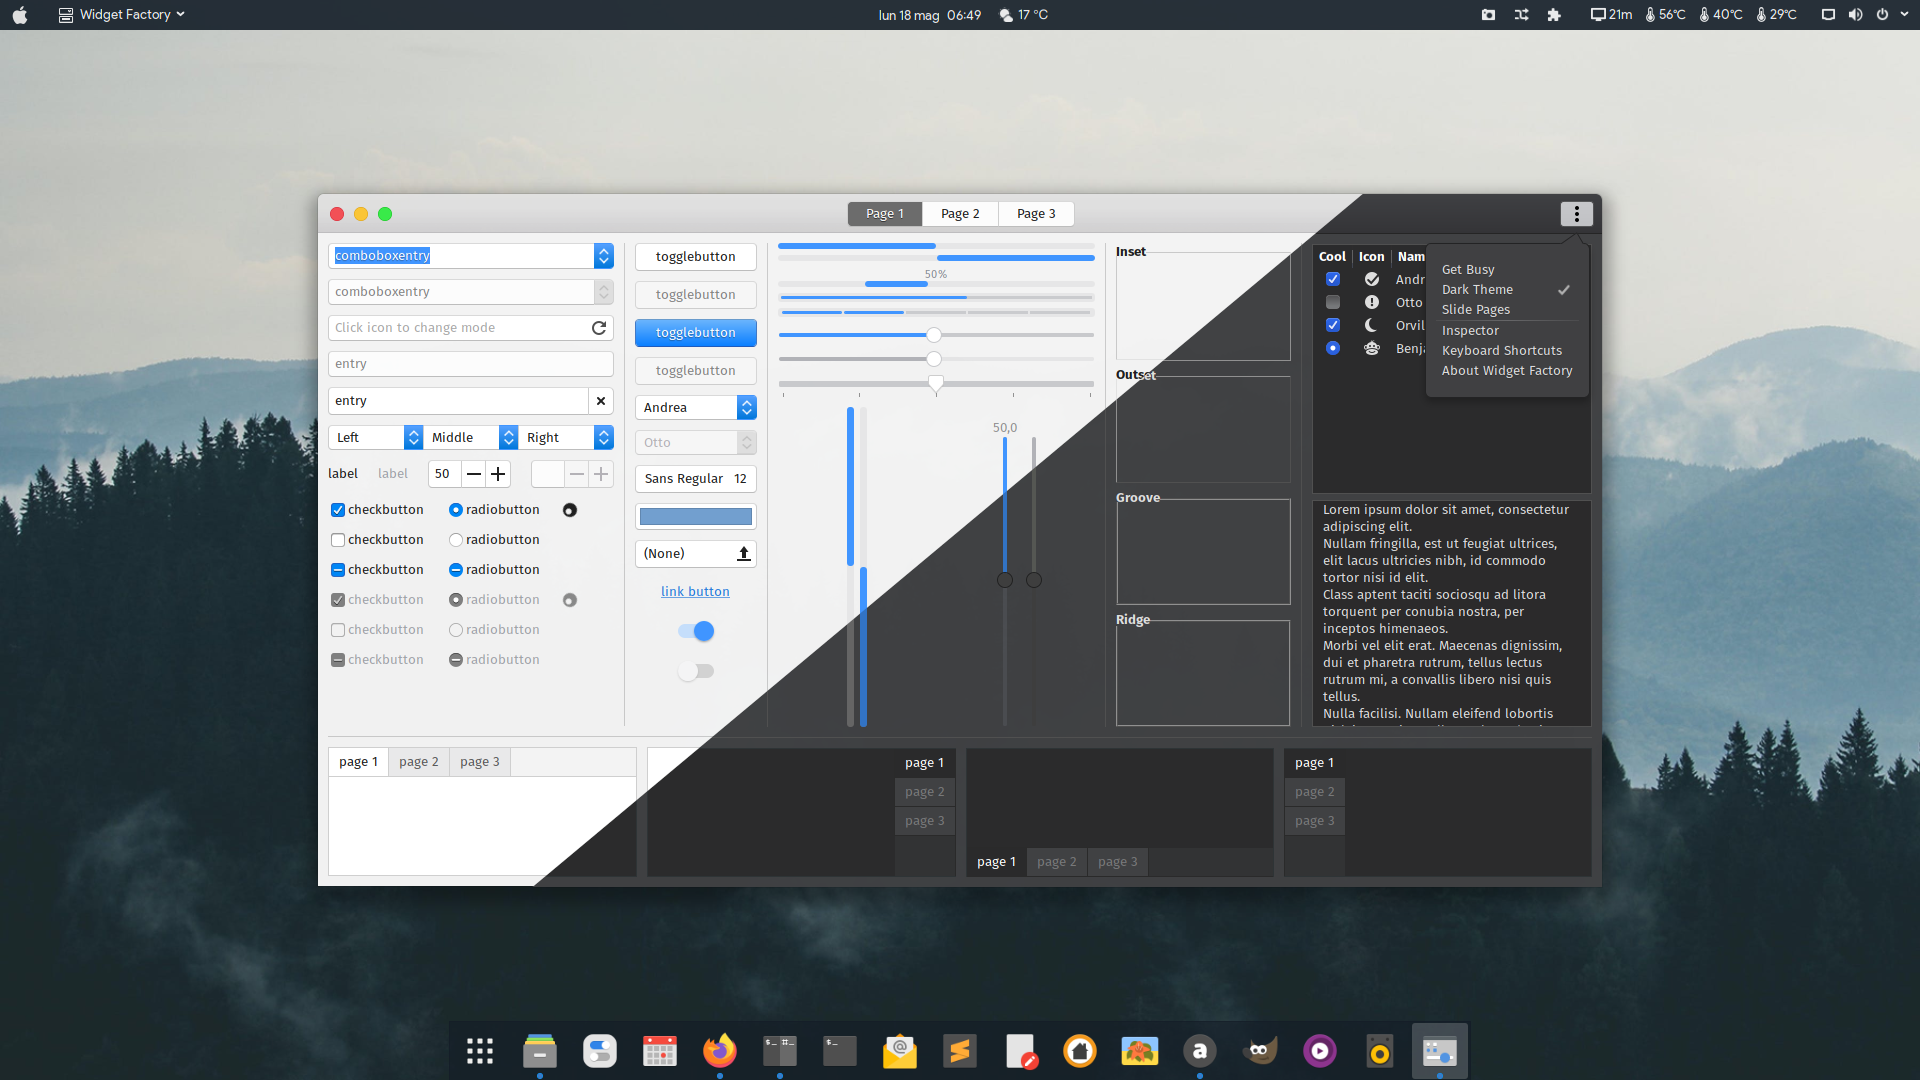
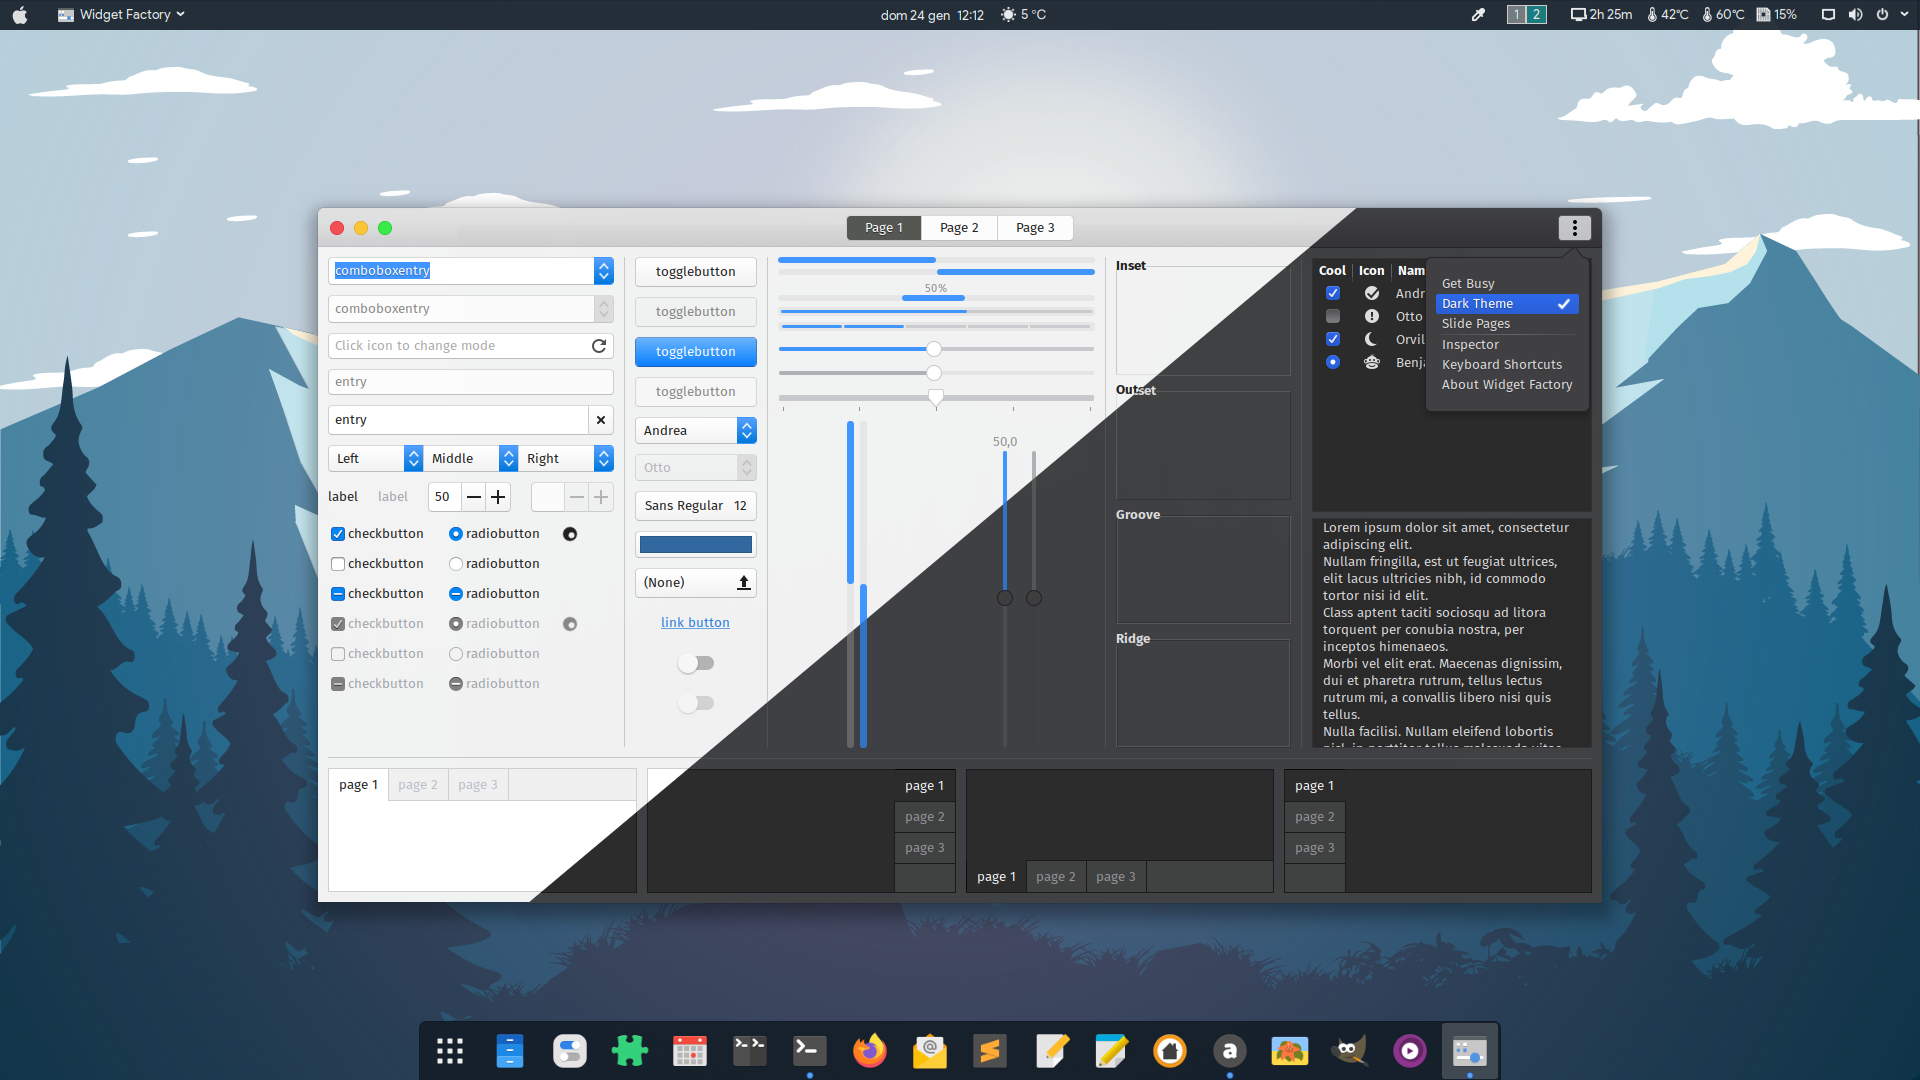
gtk3 notebook padding

diff --git a/MecOS-Dark/gtk-3.0/gtk.css b/MecOS-Dark/gtk-3.0/gtk.css
@@ -5960,11 +5960,7 @@ notebook > header.bottom > tabs > tab:checked {	box-shadow: 0 -1px @base_color, 
 notebook > header.left > tabs > tab:checked {box-shadow: 1px 0 @base_color, 0 1px @borders, 0 -1px @borders; }
 notebook > header.right > tabs > tab:checked {box-shadow: -1px 0 @base_color, 0 1px @borders, 0 -1px @borders, 0 -1px @borders;}
 
-notebook tab label { padding: 3px 6px;}
-
-notebook .active-page,
-notebook tab .active-page label { color: inherit; font-weight: bold;}
-
+notebook tab label { padding: 2px 4px;}
 
 /*****************************************************************/
 /*     MENU-related stuff                                        */

diff --git a/MecOS/gtk-3.0/gtk-dark.css b/MecOS/gtk-3.0/gtk-dark.css
@@ -5960,11 +5960,7 @@ notebook > header.bottom > tabs > tab:checked {	box-shadow: 0 -1px @base_color, 
 notebook > header.left > tabs > tab:checked {box-shadow: 1px 0 @base_color, 0 1px @borders, 0 -1px @borders; }
 notebook > header.right > tabs > tab:checked {box-shadow: -1px 0 @base_color, 0 1px @borders, 0 -1px @borders, 0 -1px @borders;}
 
-notebook tab label { padding: 3px 6px;}
-
-notebook .active-page,
-notebook tab .active-page label { color: inherit; font-weight: bold;}
-
+notebook tab label { padding: 2px 4px;}
 
 /*****************************************************************/
 /*     MENU-related stuff                                        */

diff --git a/MecOS/gtk-3.0/gtk.css b/MecOS/gtk-3.0/gtk.css
@@ -5661,10 +5661,7 @@ notebook > header.bottom > tabs > tab:checked {	box-shadow: 0 -1px @base_color, 
 notebook > header.left > tabs > tab:checked {box-shadow: 1px 0 @base_color, 0 1px @borders, 0 -1px @borders; }
 notebook > header.right > tabs > tab:checked {box-shadow: -1px 0 @base_color, 0 1px @borders, 0 -1px @borders, 0 -1px @borders;}
 
-notebook tab label { padding: 3px 6px;}
-
-notebook .active-page,
-notebook tab .active-page label { color: inherit; font-weight: bold;}
+notebook tab label { padding: 2px 4px;}
 
 
 /*****************************************************************/
